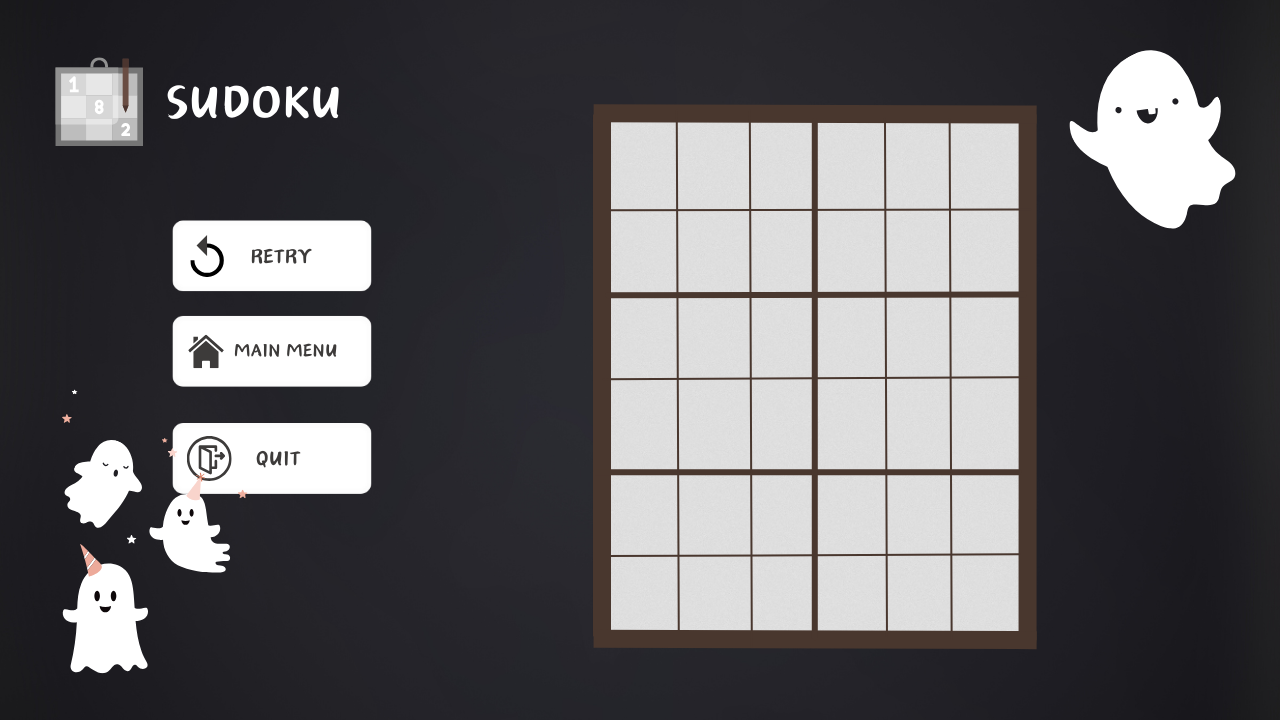
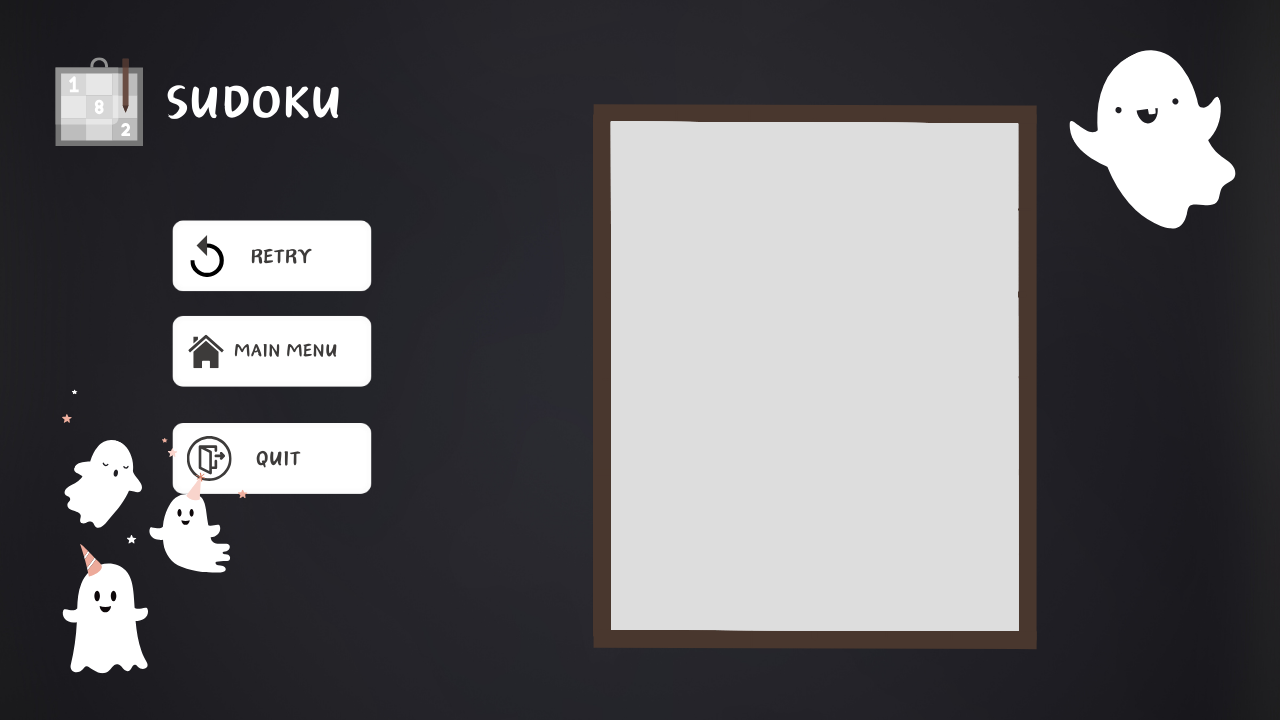
With grid

diff --git a/src/Main/Panel.java b/src/Main/Panel.java
@@ -12,7 +12,7 @@ public class Panel extends JPanel {
 
     private Main main;
     private JLabel aboveContentLabel;
-    private Rectangle playHitbox, menuHitbox, quitHitbox;
+    private Rectangle playHitbox, menuHitbox, quitHitbox, playingRect;
 
     public Panel(Main main) {
         this.main = main;
@@ -36,6 +36,7 @@ public class Panel extends JPanel {
         playHitbox = new Rectangle(169, 222, 200, 65);
         menuHitbox = new Rectangle(169, 318, 200, 65);
         quitHitbox = new Rectangle(169, 425, 200, 65);
+        playingRect = new Rectangle(611, 121, 408, 510);
     }
 
     @Override
@@ -51,36 +52,39 @@ public class Panel extends JPanel {
             Image background = backgroundIcon.getImage();
             g.drawImage(background, 0, 0, getWidth(), getHeight(), this);
 
-            // Define the rectangle for the Sudoku grid
-            int gridX = 300; // Adjust the X-coordinate of the grid
-            int gridY = 200; // Adjust the Y-coordinate of the grid
-            int gridWidth = 350; // Adjust the width of the grid
-            int gridHeight = 400; // Adjust the height of the grid
-
-            // Set the color to bright red
-            g2d.setColor(Color.RED);
-
-            // Draw Sudoku grid within the specified rectangle
-            int gridSize = 9; // Change this to adjust the size of the grid
-            int cellSize = gridWidth / gridSize;
-
-            // Draw grid lines
-            for (int i = 0; i <= gridSize; i++) {
-                g2d.drawLine(gridX + i * cellSize, gridY, gridX + i * cellSize, gridY + gridHeight);
-                g2d.drawLine(gridX, gridY + i * cellSize, gridX + gridWidth, gridY + i * cellSize);
-            }
-
-            // Reset the color to the default
-            g2d.setColor(Color.BLACK);
-
+            // Draw the outer rectangles
             g2d.draw(playHitbox);
             g2d.draw(menuHitbox);
             g2d.draw(quitHitbox);
+            g2d.setColor(Color.RED);
+            g2d.draw(playingRect);
+
+            // Draw a 6x6 grid within playingRect
+            int gridSize = 6;
+            int playingRectWidth = playingRect.width;
+            int playingRectHeight = playingRect.height;
+            int cellSizeX = playingRectWidth / gridSize;
+            int cellSizeY = playingRectHeight / gridSize;
+
+            g2d.setColor(Color.RED);
+            for (int i = 0; i <= gridSize; i++) {
+                int x = playingRect.x + i * cellSizeX;
+                int y = playingRect.y + i * cellSizeY;
+
+                // Draw vertical grid lines
+                g2d.drawLine(x, playingRect.y, x, playingRect.y + playingRectHeight);
+
+                // Draw horizontal grid lines
+                g2d.drawLine(playingRect.x, y, playingRect.x + playingRectWidth, y);
+            }
+
             // Add game-specific drawing logic here
         } else if (main.getState() == Main.STATE.MENU) {
             MenuPanel.drawMenu(g);
         }
     }
+
+
     public Main getMain() {
         return main;
     }
